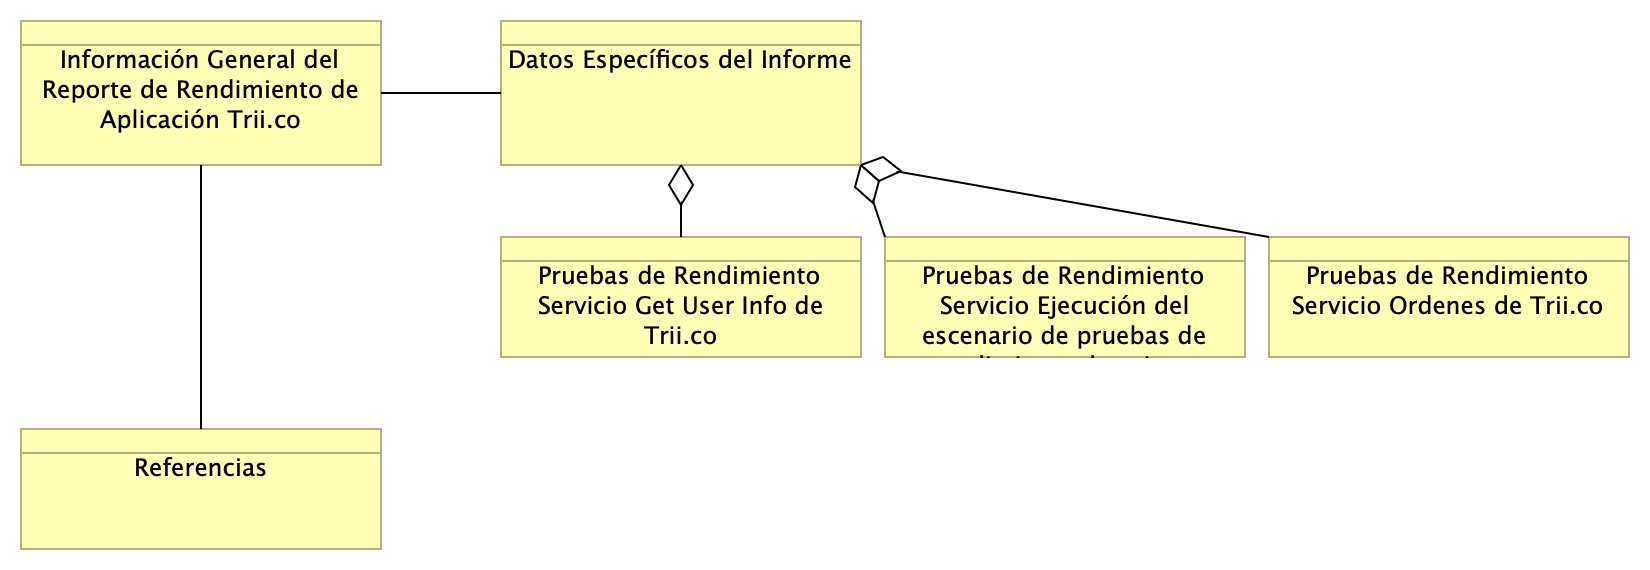
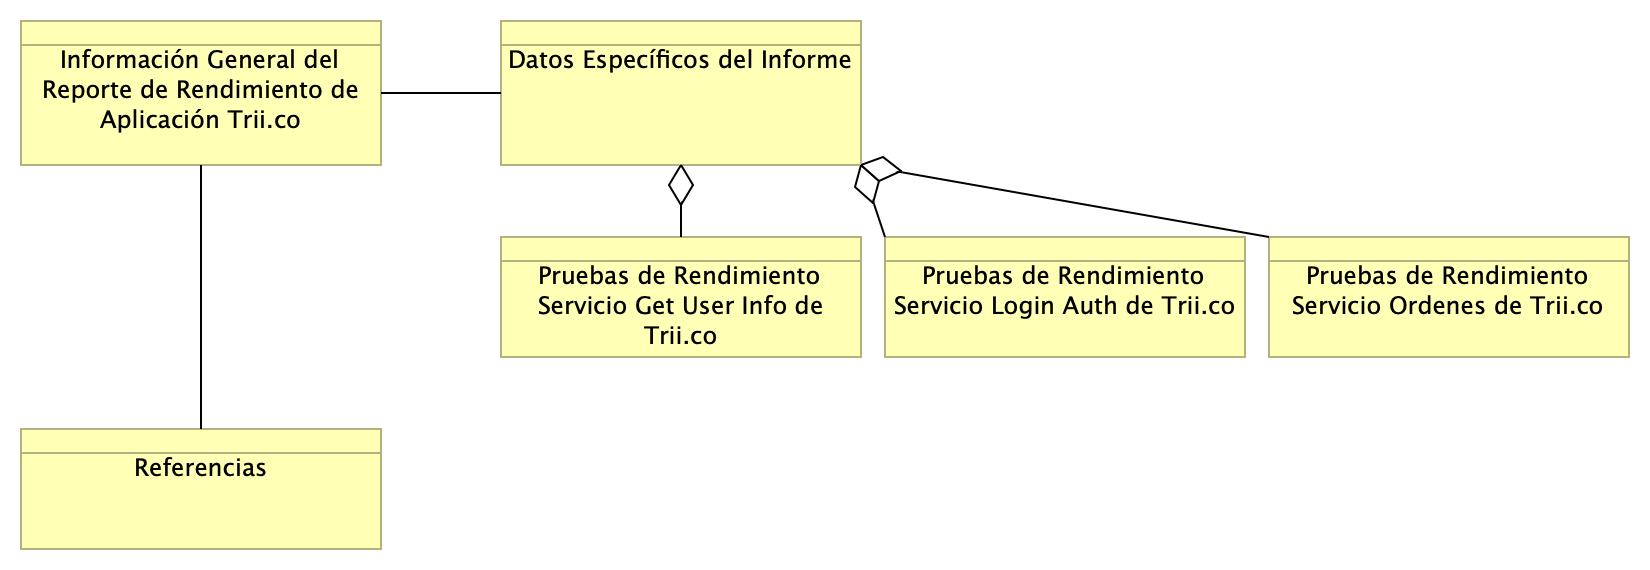
propuesta2

Changed region(s): [[0.5255, 0.507, 0.7418, 0.6263]]

diff --git a/contd/docx/04.triiinforme.md b/contd/docx/04.triiinforme.md
@@ -100,7 +100,7 @@ titlepage-rule-color: 360049
 Herramienta de Pruebas: K6, de Grafana Labs.
 
 ### Datos Específicos del Informe
-Descripción detallada de los casos de uso o flujos de usuario simulados.
+Descripción detallada de los casos de uso o flujos de usuario simulados de los servicios de Trii probados.
 
 ### Pruebas de Rendimiento Servicio Get User Info de Trii.co
 El servicio Get User Info (user info) obtiene datos de trabajo del cliente previo a la orden. Requiere como mínimo actividades de autenticación, y es responsable de alimentar al servicio Ordenes.
@@ -194,8 +194,8 @@ Con base en las 28816 iteraciones completadas y 0 interrumpidas, no hubo limitac
  
 > Calidad de la prueba: 28816 iteraciones completadas; 0 interrumpidas
 
-### Pruebas de Rendimiento Servicio Ejecución del escenario de pruebas de rendimiento descrito a continuación del servicio Get User Info (user info) de la plataforma Trii.co. de Trii.co
-El servicio Login (auth) es responsable de dar inicio a una sesión de trabajo de un cliente Trii. Realiza como mínimo la provisión de datos necesarios a otros servicios respectyo de la verificación y creación de una sesión de trabajo válida.
+### Pruebas de Rendimiento Servicio Login Auth de Trii.co
+El servicio Login (auth) es responsable de dar inicio a una sesión de trabajo de un cliente Trii. Realiza como mínimo la provisión de datos necesarios a otros servicios respecto de la verificación y creación de una sesión de trabajo válida.
 
 Carga de Usuarios: Cantidad de usuarios virtuales concurrentes simulados, máximo 60.
 Duración de las Pruebas: Tiempo durante el cual se ejecutaron las pruebas, mínimo 10 minutos.

diff --git a/contd/pdf/04.triiinforme.md b/contd/pdf/04.triiinforme.md
@@ -100,7 +100,7 @@ titlepage-rule-color: 360049
 Herramienta de Pruebas: K6, de Grafana Labs.
 
 ### Datos Específicos del Informe
-Descripción detallada de los casos de uso o flujos de usuario simulados.
+Descripción detallada de los casos de uso o flujos de usuario simulados de los servicios de Trii probados.
 
 ### Pruebas de Rendimiento Servicio Get User Info de Trii.co
 El servicio Get User Info (user info) obtiene datos de trabajo del cliente previo a la orden. Requiere como mínimo actividades de autenticación, y es responsable de alimentar al servicio Ordenes.
@@ -194,8 +194,8 @@ Con base en las 28816 iteraciones completadas y 0 interrumpidas, no hubo limitac
  
 > Calidad de la prueba: 28816 iteraciones completadas; 0 interrumpidas
 
-### Pruebas de Rendimiento Servicio Ejecución del escenario de pruebas de rendimiento descrito a continuación del servicio Get User Info (user info) de la plataforma Trii.co. de Trii.co
-El servicio Login (auth) es responsable de dar inicio a una sesión de trabajo de un cliente Trii. Realiza como mínimo la provisión de datos necesarios a otros servicios respectyo de la verificación y creación de una sesión de trabajo válida.
+### Pruebas de Rendimiento Servicio Login Auth de Trii.co
+El servicio Login (auth) es responsable de dar inicio a una sesión de trabajo de un cliente Trii. Realiza como mínimo la provisión de datos necesarios a otros servicios respecto de la verificación y creación de una sesión de trabajo válida.
 
 Carga de Usuarios: Cantidad de usuarios virtuales concurrentes simulados, máximo 60.
 Duración de las Pruebas: Tiempo durante el cual se ejecutaron las pruebas, mínimo 10 minutos.

diff --git a/contd/tex/04.triiinforme.md b/contd/tex/04.triiinforme.md
@@ -100,7 +100,7 @@ titlepage-rule-color: 360049
 Herramienta de Pruebas: K6, de Grafana Labs.
 
 ### Datos Específicos del Informe
-Descripción detallada de los casos de uso o flujos de usuario simulados.
+Descripción detallada de los casos de uso o flujos de usuario simulados de los servicios de Trii probados.
 
 ### Pruebas de Rendimiento Servicio Get User Info de Trii.co
 El servicio Get User Info (user info) obtiene datos de trabajo del cliente previo a la orden. Requiere como mínimo actividades de autenticación, y es responsable de alimentar al servicio Ordenes.
@@ -194,8 +194,8 @@ Con base en las 28816 iteraciones completadas y 0 interrumpidas, no hubo limitac
  
 > Calidad de la prueba: 28816 iteraciones completadas; 0 interrumpidas
 
-### Pruebas de Rendimiento Servicio Ejecución del escenario de pruebas de rendimiento descrito a continuación del servicio Get User Info (user info) de la plataforma Trii.co. de Trii.co
-El servicio Login (auth) es responsable de dar inicio a una sesión de trabajo de un cliente Trii. Realiza como mínimo la provisión de datos necesarios a otros servicios respectyo de la verificación y creación de una sesión de trabajo válida.
+### Pruebas de Rendimiento Servicio Login Auth de Trii.co
+El servicio Login (auth) es responsable de dar inicio a una sesión de trabajo de un cliente Trii. Realiza como mínimo la provisión de datos necesarios a otros servicios respecto de la verificación y creación de una sesión de trabajo válida.
 
 Carga de Usuarios: Cantidad de usuarios virtuales concurrentes simulados, máximo 60.
 Duración de las Pruebas: Tiempo durante el cual se ejecutaron las pruebas, mínimo 10 minutos.
